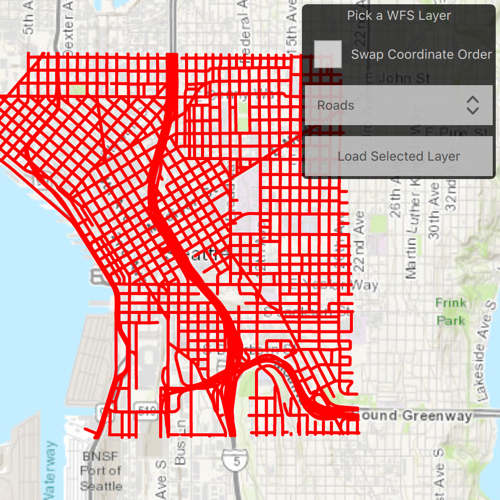
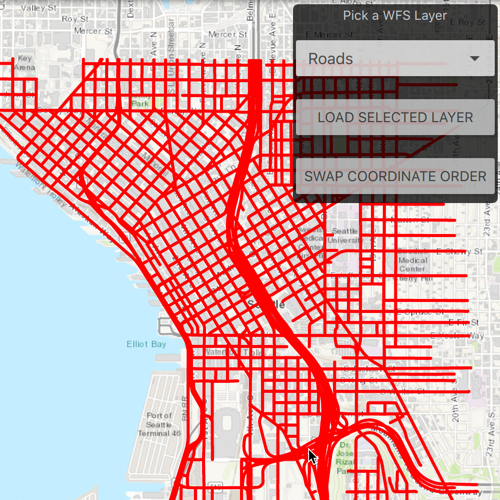
addressing verification issues

diff --git a/ArcGISRuntimeSDKQt_QMLSamples/Layers/BrowseWfsLayers/BrowseWfsLayers.qml b/ArcGISRuntimeSDKQt_QMLSamples/Layers/BrowseWfsLayers/BrowseWfsLayers.qml
@@ -113,7 +113,7 @@ Rectangle {
 
                 //once loaded populate myWfsListModel with titles from the service to display in a comboBox
                 for(var i in wfsLayersInfoList){
-                    var data = {title: wfsLayersInfoList[i].title};
+                    var data = {"title": wfsLayersInfoList[i].title};
                     myWfsListModel.append(data);
                 }
             }

diff --git a/ArcGISRuntimeSDKQt_CppSamples/Layers/BrowseWfsLayers/README.md b/ArcGISRuntimeSDKQt_CppSamples/Layers/BrowseWfsLayers/README.md
@@ -12,7 +12,7 @@ Services often have multiple layers available for display. For example, a featur
 
 A list of layers in the WFS service will be shown. Select a layer to display.
 
-Some WFS services return coordinates in X,Y order, while others return coordinates in lat/long (Y,X) order. If you don't see features rendered or you see features in the wrong location, use the checkbox to change the coordinate order and reload.
+Some WFS services return coordinates in X,Y order, while others return coordinates in lat/long (Y,X) order. If you don't see features rendered or you see features in the wrong location, click on "Swap Coordinate Order".
 
 ## How it works
 

diff --git a/ArcGISRuntimeSDKQt_QMLSamples/Layers/BrowseWfsLayers/README.md b/ArcGISRuntimeSDKQt_QMLSamples/Layers/BrowseWfsLayers/README.md
@@ -12,7 +12,7 @@ Services often have multiple layers available for display. For example, a featur
 
 A list of layers in the WFS service will be shown. Select a layer to display.
 
-Some WFS services return coordinates in X,Y order, while others return coordinates in lat/long (Y,X) order. If you don't see features rendered or you see features in the wrong location, use the checkbox to change the coordinate order and reload.
+Some WFS services return coordinates in X,Y order, while others return coordinates in lat/long (Y,X) order. If you don't see features rendered or you see features in the wrong location, click on "Swap Coordinate Order".
 
 ## How it works
 
